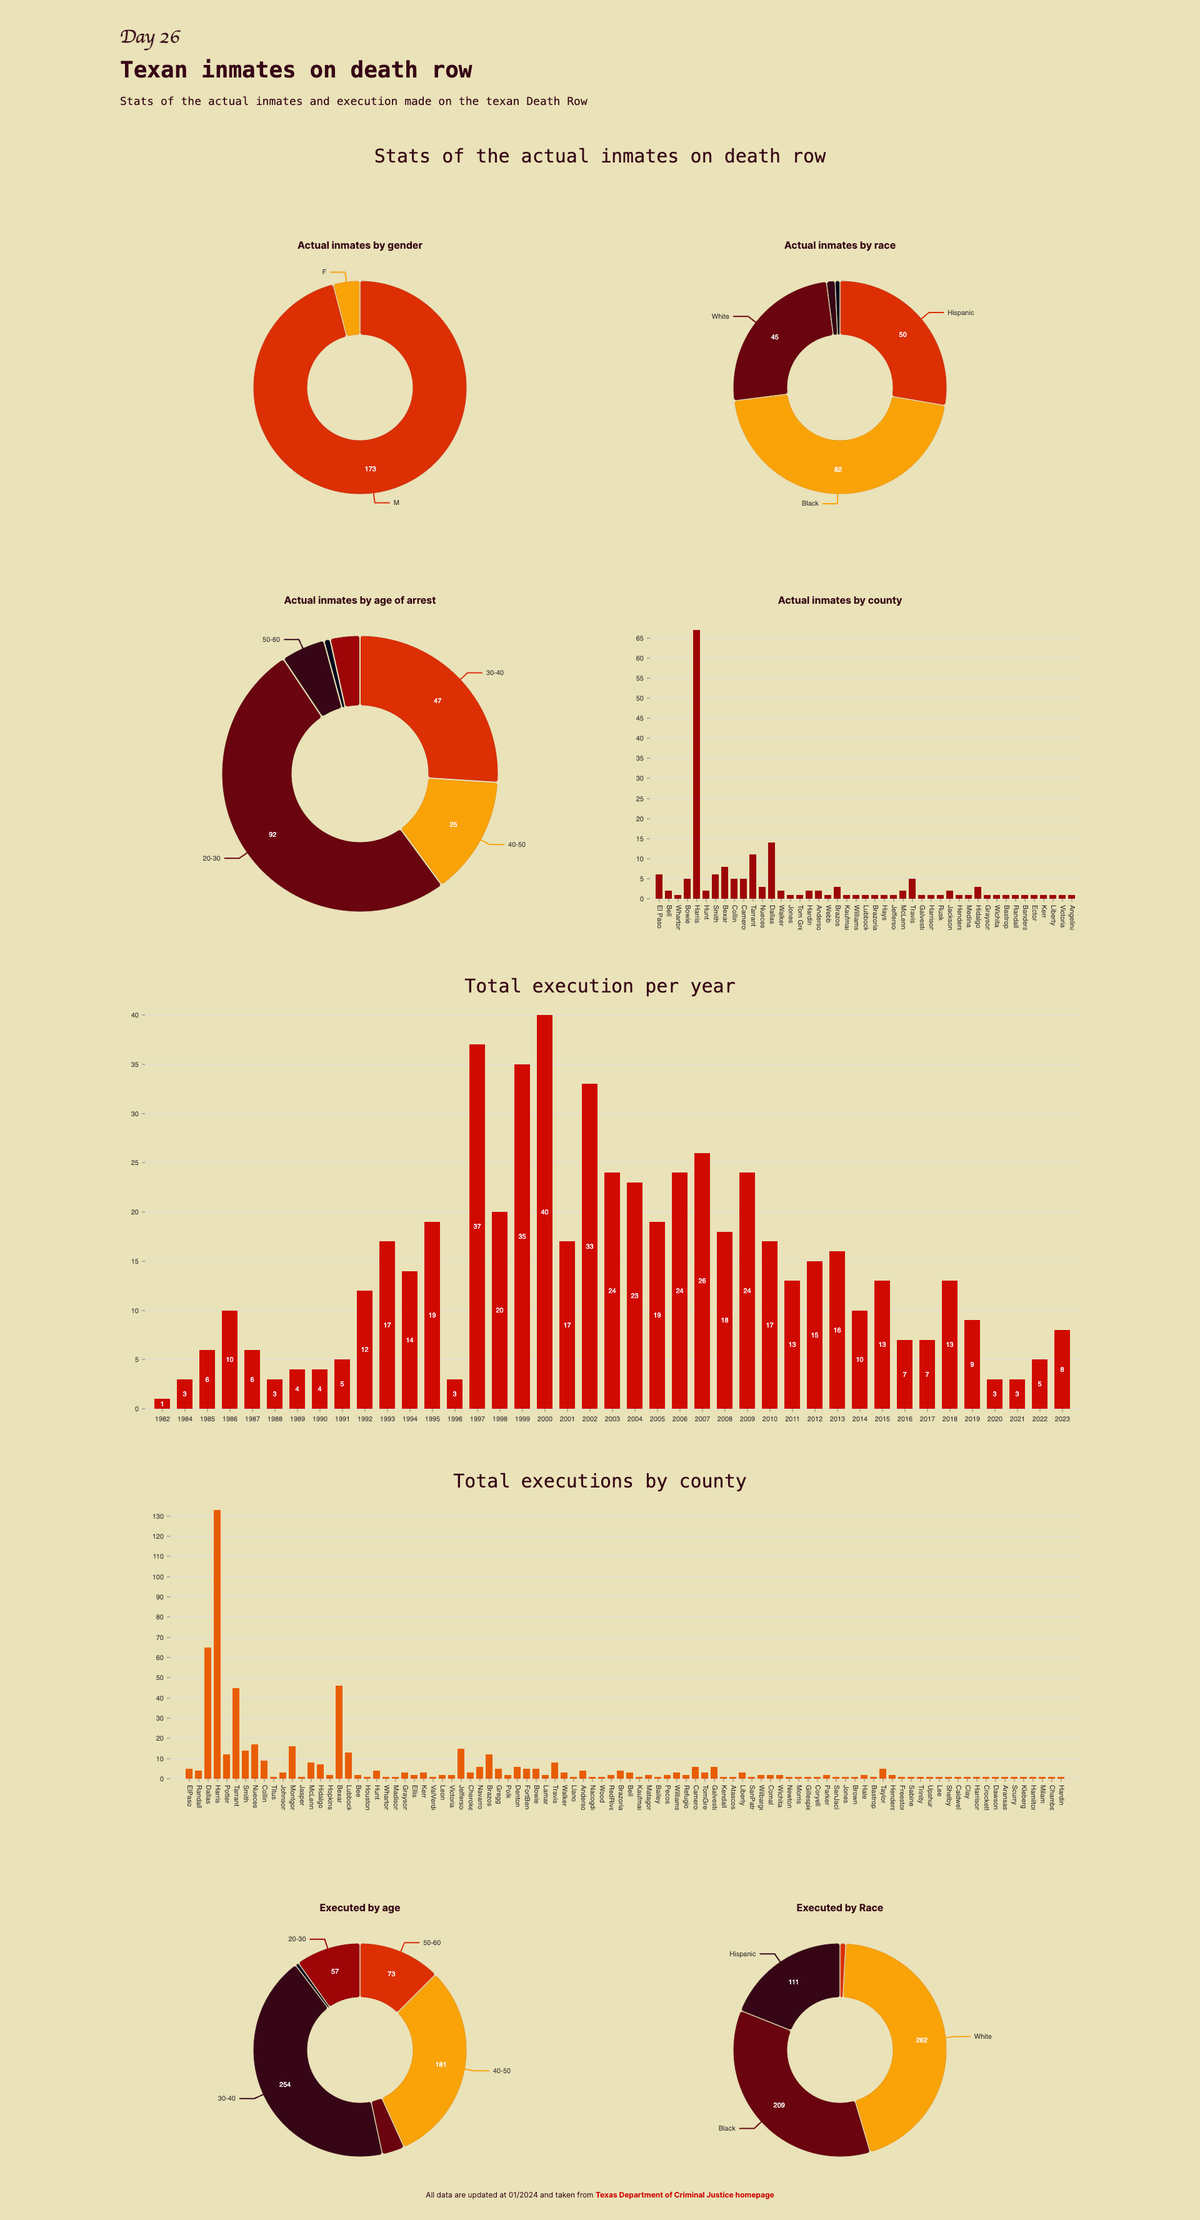
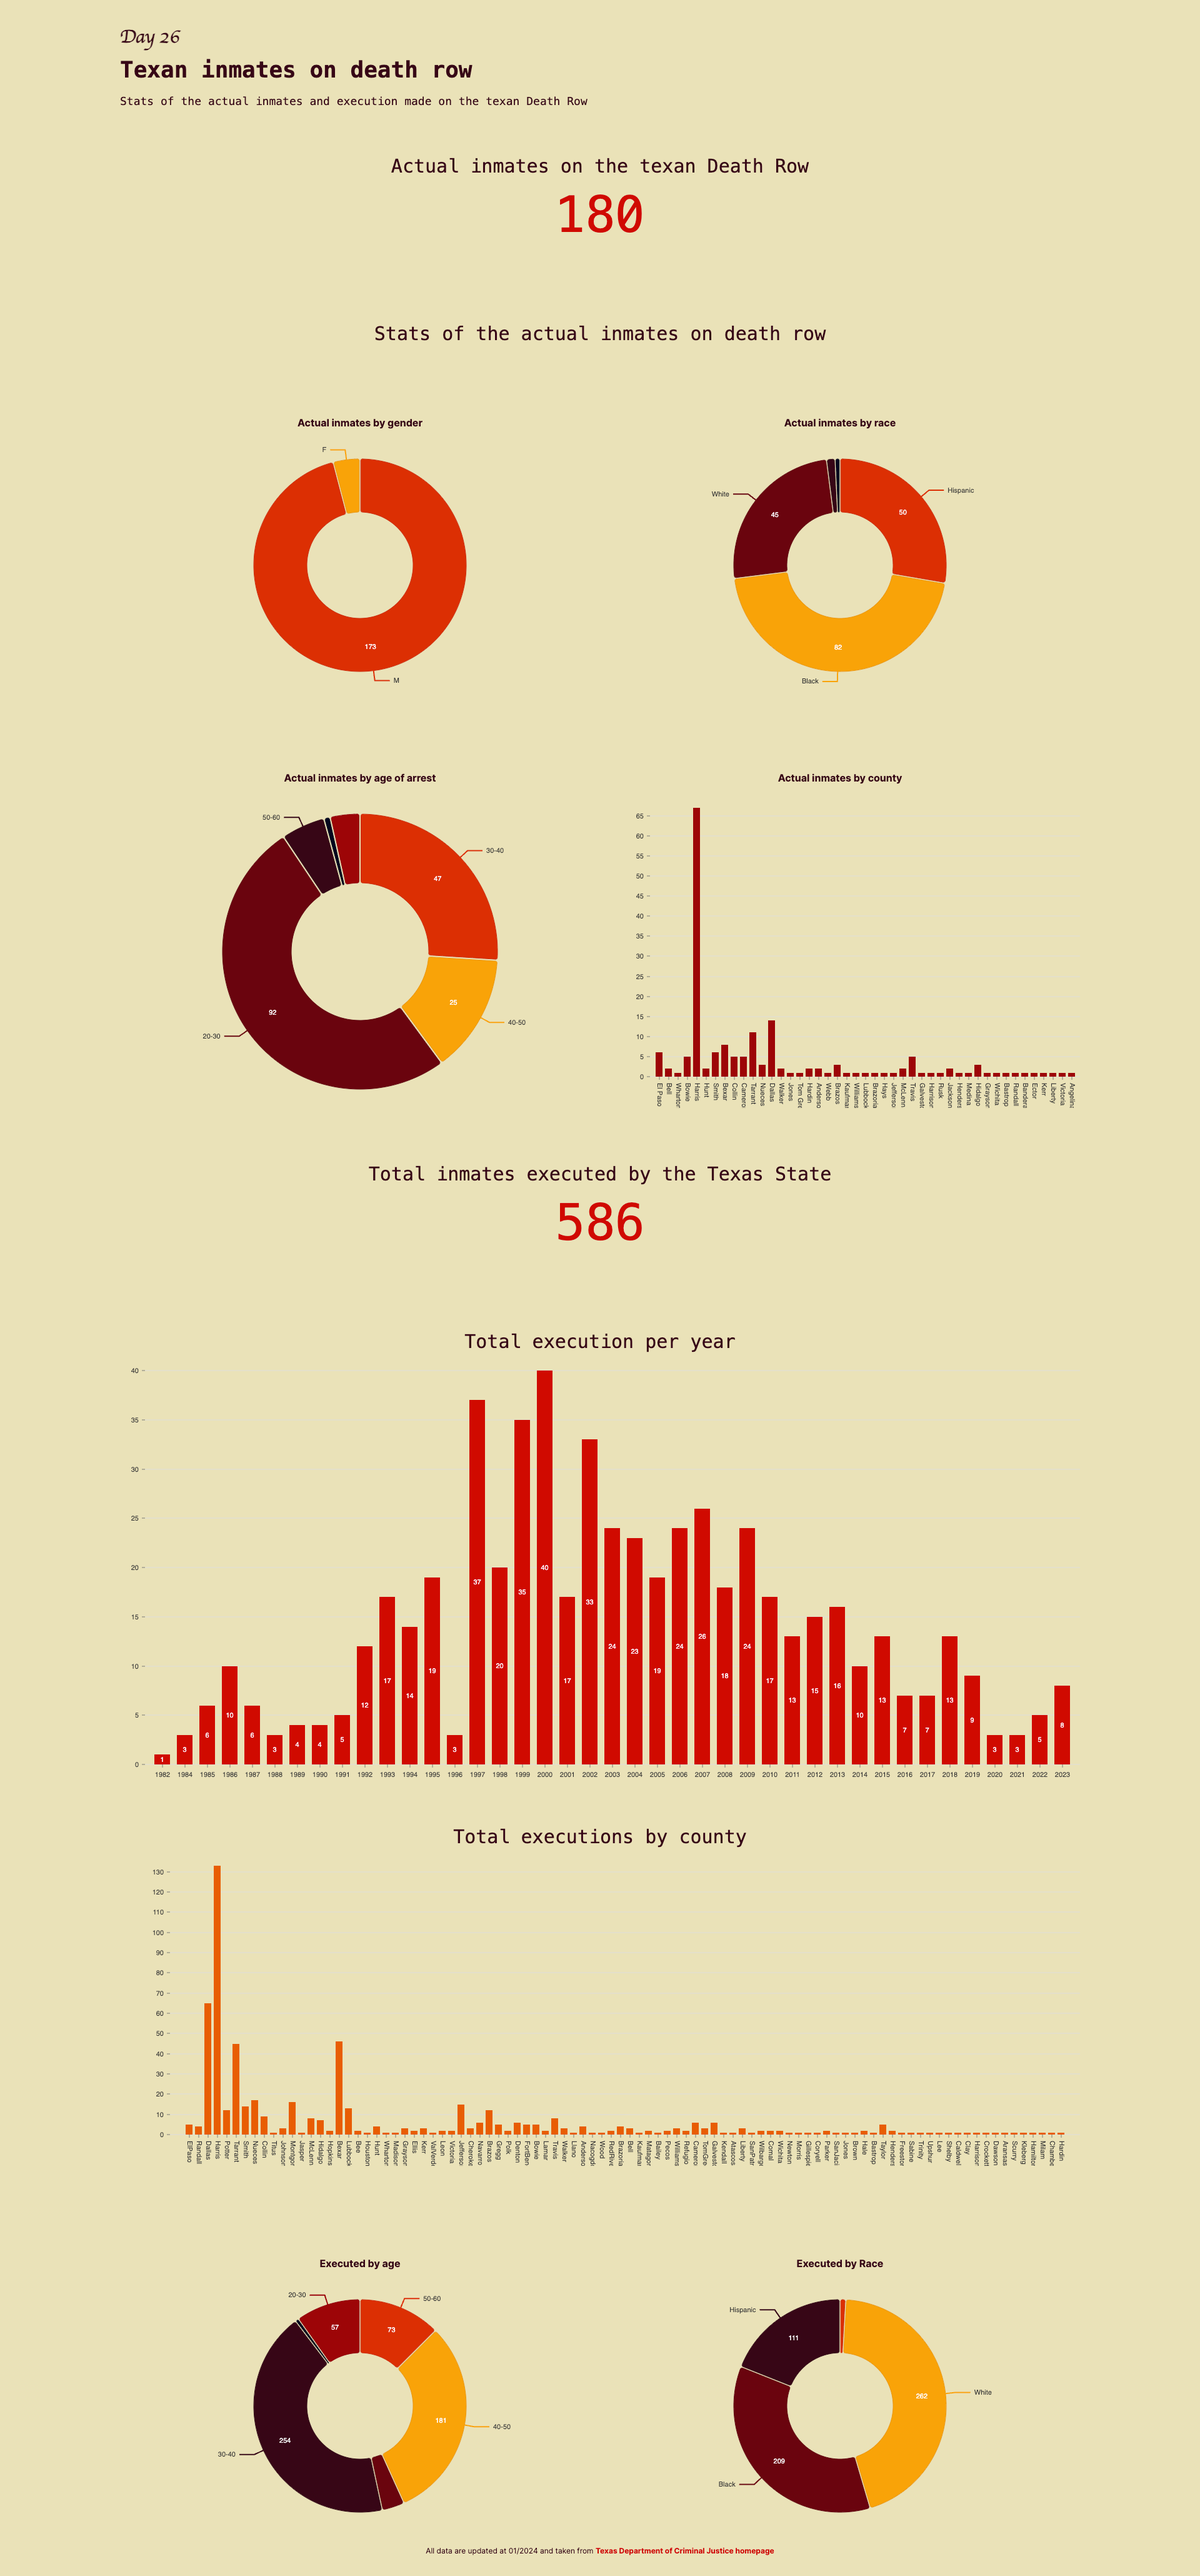
feat(26): added global numbers

diff --git a/src/app/day/26/page.jsx b/src/app/day/26/page.jsx
@@ -1,3 +1,5 @@
+import dynamic from 'next/dynamic';
+
 import './page.css';
 
 import NivoBar from '@internal/components/Charts/Nivo/Bar';
@@ -14,7 +16,14 @@ import {
   executedByCounty,
   executedByRace,
   executedByYear,
+  totalActual,
+  totalExecuted,
 } from './utils/getParsedData';
+
+const AnimatedNumber = dynamic(
+  () => import('../../../components/AnimatedNumber/AnimatedNumber'),
+  { ssr: false }
+);
 
 const Page26 = () => {
   return (
@@ -25,6 +34,18 @@ const Page26 = () => {
         </h1>
         <p className='py-2 font-mono text-lg'>{infos.description}</p>
       </section>
+      <div className='flex flex-row py-16 max-xl:h-fit max-xl:flex-wrap max-xl:py-4'>
+        <div className='stats-radar basis-full'>
+          <p className='text-center font-mono text-3xl'>
+            Actual inmates on the texan Death Row
+          </p>
+          <AnimatedNumber
+            number={totalActual}
+            className='font-mono w-full text-[#d00000] justify-center'
+            size={80}
+          />
+        </div>
+      </div>
       <section id='inmated-on-death-row' className='mt-10'>
         <h3 className='py-2 font-mono text-3xl max-md:text-2xl text-center flex max-md:flex-col justify-center items-center'>
           Stats of the actual inmates on death row
@@ -93,6 +114,18 @@ const Page26 = () => {
           </div>
         </div>
       </section>
+      <div className='flex flex-row py-16 max-xl:h-fit max-xl:flex-wrap max-xl:py-4'>
+        <div className='stats-radar basis-full'>
+          <p className='text-center font-mono text-3xl'>
+            Total inmates executed by the Texas State
+          </p>
+          <AnimatedNumber
+            number={totalExecuted}
+            className='font-mono w-full text-[#d00000] justify-center'
+            size={80}
+          />
+        </div>
+      </div>
       <section id='total-execution-per-year' className='mt-10'>
         <h3 className='py-2 font-mono text-3xl max-md:text-2xl text-center flex max-md:flex-col justify-center items-center'>
           Total execution per year

diff --git a/src/components/AnimatedNumber/AnimatedNumber.jsx b/src/components/AnimatedNumber/AnimatedNumber.jsx
@@ -2,7 +2,7 @@
 
 import AnimatedNumbers from 'react-animated-numbers';
 
-const AnimatedNumber = ({ number, className = '' }) => {
+const AnimatedNumber = ({ number, className = '', size = 50 }) => {
   return (
     <AnimatedNumbers
       includeComma
@@ -13,7 +13,7 @@ const AnimatedNumber = ({ number, className = '' }) => {
       })}
       animateToNumber={number}
       fontStyle={{
-        fontSize: 50,
+        fontSize: size,
         textAlign: 'center',
       }}
     />

diff --git a/src/app/day/26/utils/getParsedData.js b/src/app/day/26/utils/getParsedData.js
@@ -3,6 +3,9 @@ import dayjs from 'dayjs';
 import rawExecuted from '../data/executed.json';
 import rawValues from '../data/values.json';
 
+export const totalExecuted = rawExecuted.length;
+export const totalActual = rawValues.length;
+
 export const byGender = rawValues.reduce((acc, curr) => {
   const foundEntry = acc.findIndex((el) => el.id === curr.Gender);
   if (foundEntry !== -1) {
